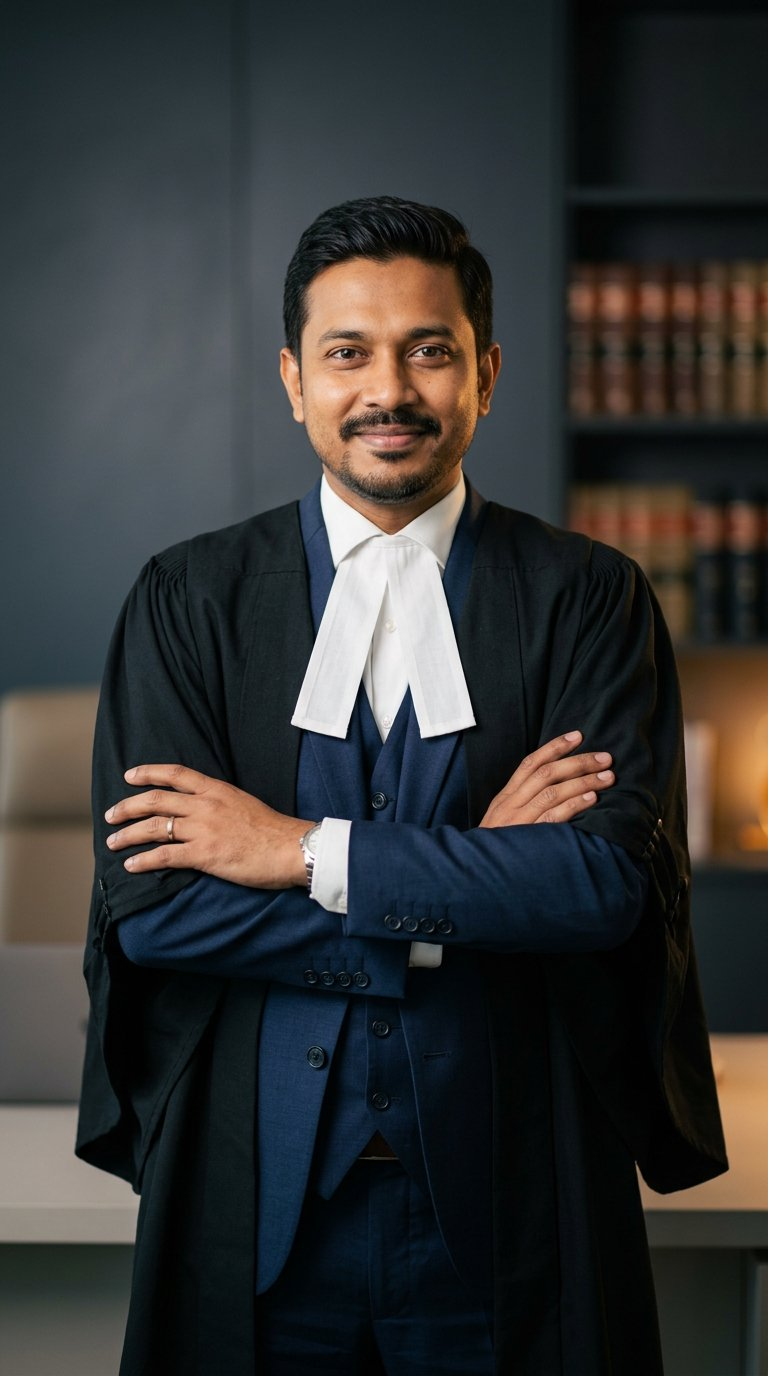
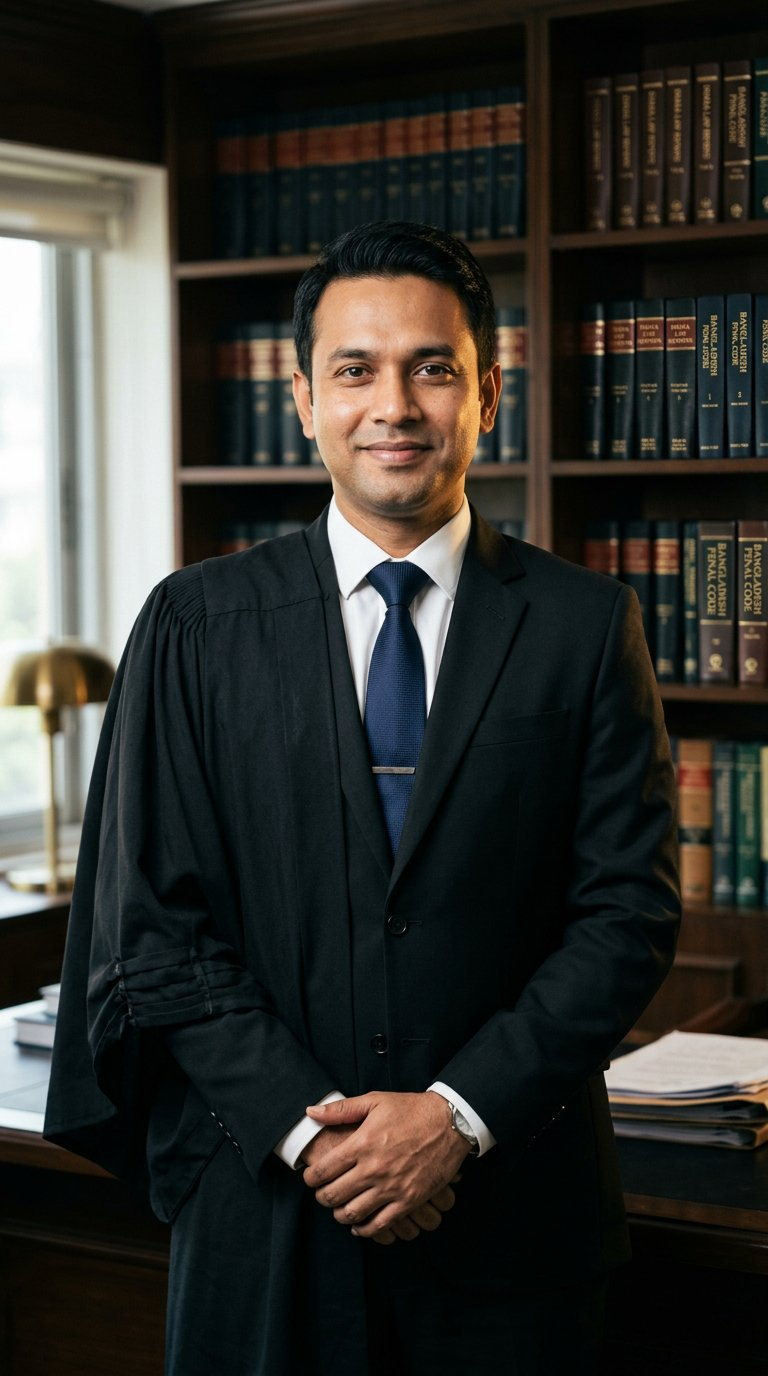
Hero: professional advocate portrait with WebP source for the main person

diff --git a/index.html b/index.html
@@ -104,7 +104,10 @@
         </div>
         <div class="hero-visual">
           <div class="portrait-frame">
-            <img src="assets/img/advocate-portrait.jpg" alt="অ্যাডভোকেট আরমান হোসেন" width="768" height="1376" fetchpriority="high">
+            <picture>
+              <source srcset="assets/img/advocate-portrait.webp" type="image/webp">
+              <img src="assets/img/advocate-portrait.jpg" alt="অ্যাডভোকেট আরমান হোসেন" width="768" height="1376" fetchpriority="high" decoding="async">
+            </picture>
             <div class="portrait-caption"><span class="availability-dot"></span> ভোলায় আপনার বিশ্বস্ত আইনি সহযোগী</div>
           </div>
           <div class="float-badge badge-experience"><svg class="icon" aria-hidden="true" width="24" height="24"><use href="#i-scale"></use></svg><div><strong>৫+</strong><span>বছরের অভিজ্ঞতা</span></div></div>
